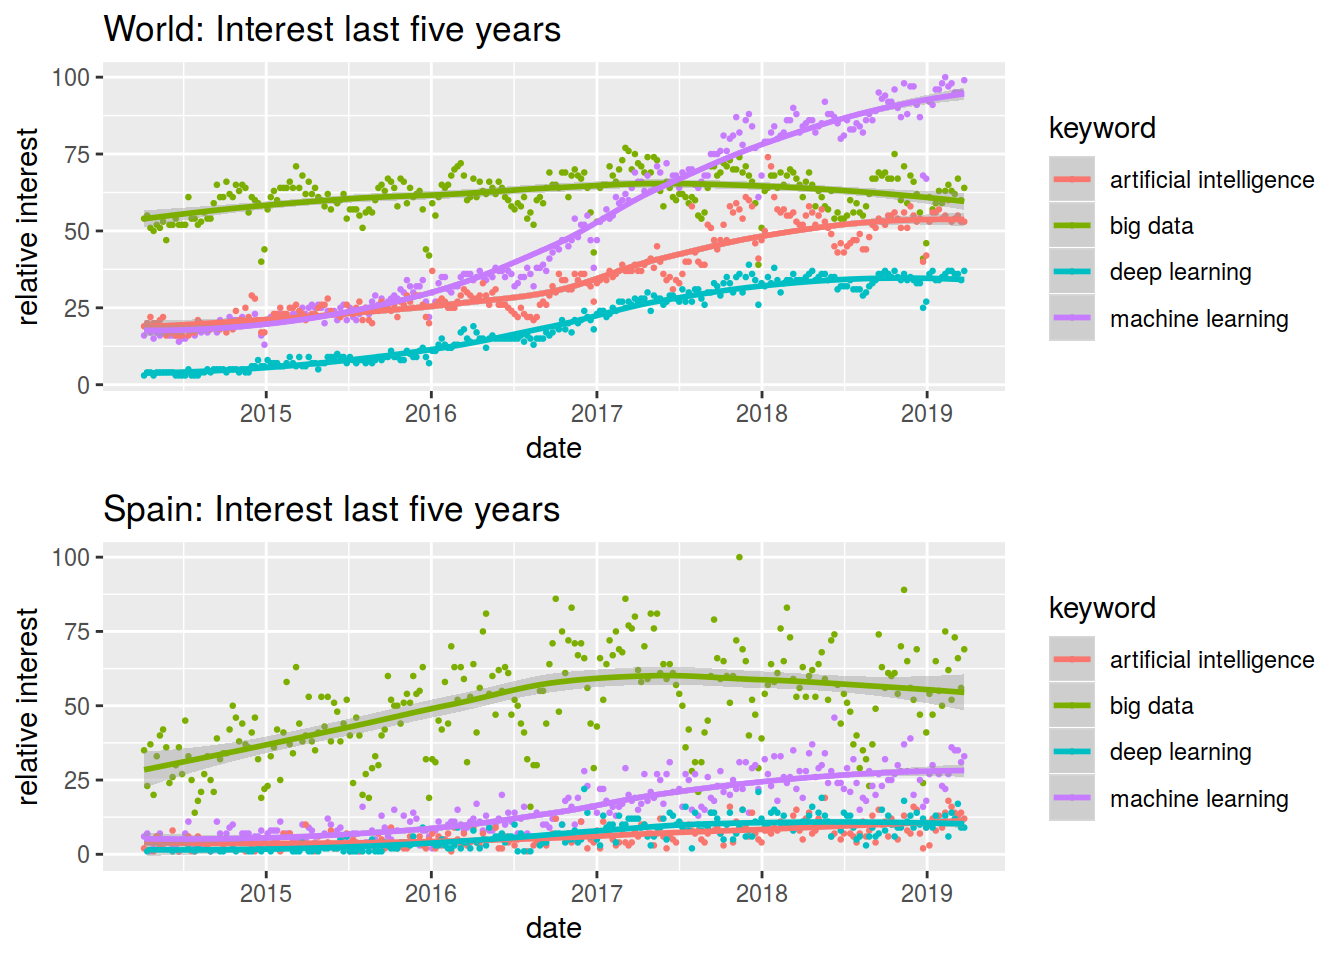
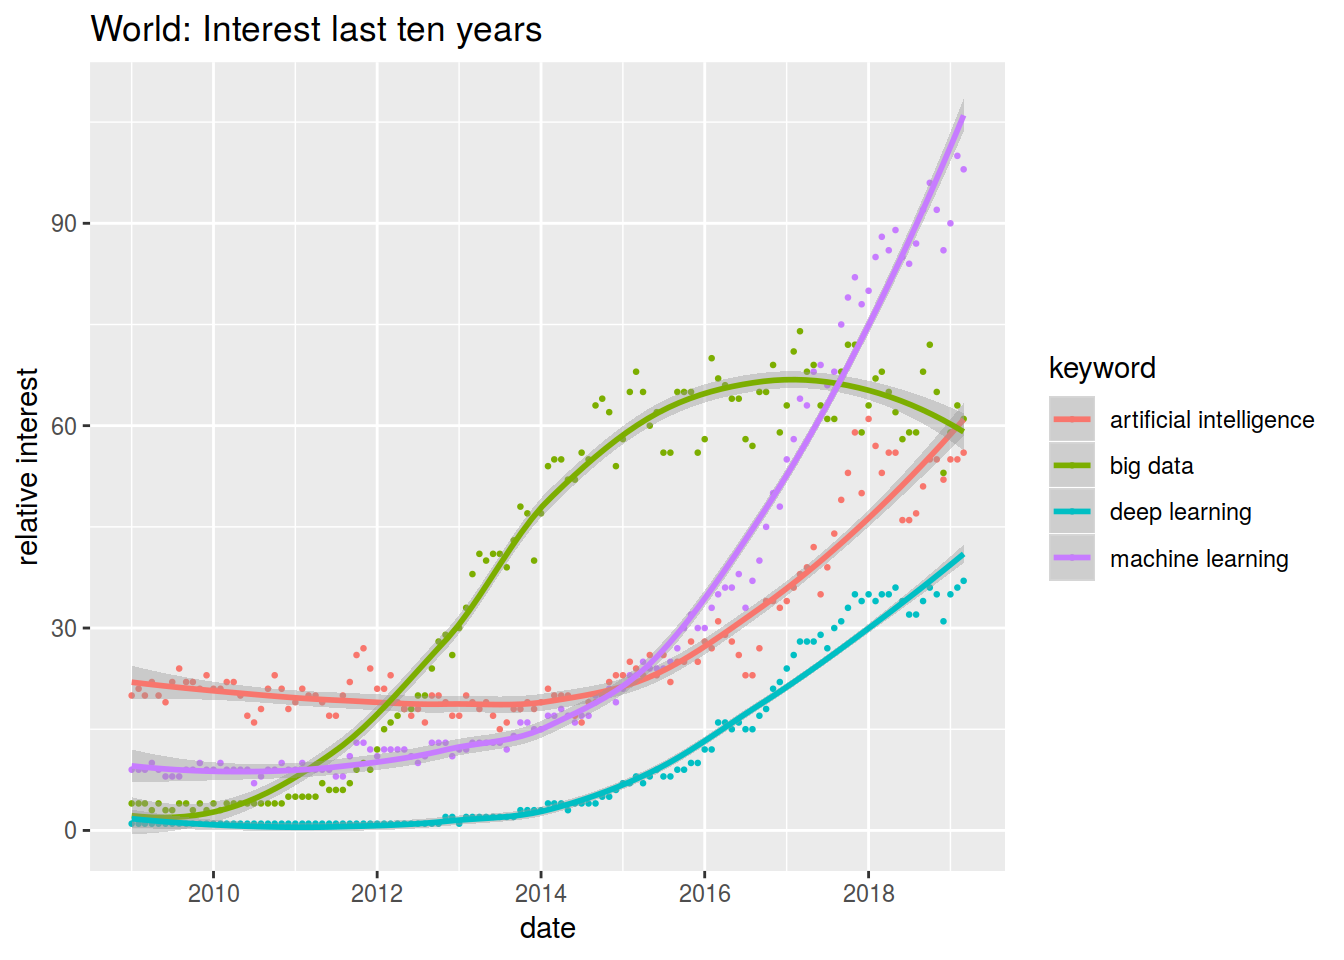
update graph

diff --git a/content/post/2019-04-01-burbuja-o-no-burbuja-esa-es-la-cuestion.html b/content/post/2019-04-01-burbuja-o-no-burbuja-esa-es-la-cuestion.html
@@ -22,37 +22,42 @@ topics: []
 <p>Vamos a usar la librería gtrendsR que ataca a la API de googleTrends</p>
 <pre class="r"><code>library(gtrendsR)
 library(tidyverse)</code></pre>
-<pre><code>## ── Attaching packages ───────────────────────────────────────────────── tidyverse 1.2.1 ──</code></pre>
+<pre><code>## ── Attaching packages ──────────────────────────────── tidyverse 1.2.1 ──</code></pre>
 <pre><code>## ✔ ggplot2 3.1.0       ✔ purrr   0.3.2  
 ## ✔ tibble  2.1.1       ✔ dplyr   0.8.0.1
 ## ✔ tidyr   0.8.3       ✔ stringr 1.4.0  
 ## ✔ readr   1.3.1       ✔ forcats 0.4.0</code></pre>
-<pre><code>## ── Conflicts ──────────────────────────────────────────────────── tidyverse_conflicts() ──
+<pre><code>## ── Conflicts ─────────────────────────────────── tidyverse_conflicts() ──
 ## ✖ dplyr::filter() masks stats::filter()
 ## ✖ dplyr::lag()    masks stats::lag()</code></pre>
 <pre class="r"><code>library(patchwork)</code></pre>
-<pre class="r"><code>hype_words_all &lt;- gtrends(c(&quot;big data&quot;,&quot;machine learning&quot;,&quot;artificial intelligence&quot;,&quot;deep learning&quot;), time = &quot;today+5-y&quot;)
+<p>A petición de lector del blog, compañero de trabajo y sin embargo amigo pongo las búsquedas desde más atrás, pero sólo para las globales</p>
+<pre class="r"><code>today &lt;- Sys.Date()
+fecha_inicio &lt;- &quot;2009-01-01&quot;
+intervalo &lt;- paste(fecha_inicio, today, sep = &quot; &quot;)
+
+hype_words_all &lt;- gtrends(c(&quot;big data&quot;,&quot;machine learning&quot;,&quot;artificial intelligence&quot;,&quot;deep learning&quot;), time = intervalo)
 
 
-hype_words_spain &lt;- gtrends(c(&quot;big data&quot;,&quot;machine learning&quot;,&quot;artificial intelligence&quot;,&quot;deep learning&quot;), geo=&quot;ES&quot;, time = &quot;today+5-y&quot;)</code></pre>
+# hype_words_spain &lt;- gtrends(c(&quot;big data&quot;,&quot;machine learning&quot;,&quot;artificial intelligence&quot;,&quot;deep learning&quot;), geo=&quot;ES&quot;, time = intervalo)</code></pre>
 <pre class="r"><code>interest_over_time_all &lt;-  hype_words_all$interest_over_time 
 interest_over_time_all &lt;- interest_over_time_all %&gt;% filter(hits &gt;0 &amp; !is.na(hits))
 
-
-interest_over_time_spain &lt;-  hype_words_spain$interest_over_time 
-interest_over_time_spain &lt;- interest_over_time_spain %&gt;% filter(hits &gt;0 &amp; !is.na(hits))</code></pre>
+# 
+# interest_over_time_spain &lt;-  hype_words_spain$interest_over_time 
+# interest_over_time_spain &lt;- interest_over_time_spain %&gt;% filter(hits &gt;0 &amp; !is.na(hits))</code></pre>
 <pre class="r"><code>p1 &lt;- ggplot(interest_over_time_all, aes(x = date, y = hits, color=keyword)) +
   geom_point(size = rel(0.5)) +
   geom_smooth(span = 0.8) +
-  labs(title=&quot;World: Interest last five years&quot;, y = &quot;relative interest&quot;)
+  labs(title=&quot;World: Interest last ten years&quot;, y = &quot;relative interest&quot;)
 
-p2 &lt;- ggplot(interest_over_time_spain, aes(x = date, y = hits, color=keyword)) +
-  geom_point(size = rel(0.5)) +
-  geom_smooth(span = 0.8) +
-  labs(title=&quot;Spain: Interest last five years&quot;, y = &quot;relative interest&quot;)
-
-p1 + p2  + plot_layout(ncol = 1)</code></pre>
-<pre><code>## `geom_smooth()` using method = &#39;loess&#39; and formula &#39;y ~ x&#39;
-## `geom_smooth()` using method = &#39;loess&#39; and formula &#39;y ~ x&#39;</code></pre>
+p1</code></pre>
+<pre><code>## `geom_smooth()` using method = &#39;loess&#39; and formula &#39;y ~ x&#39;</code></pre>
 <p><img src="/post/2019-04-01-burbuja-o-no-burbuja-esa-es-la-cuestion_files/figure-html/unnamed-chunk-4-1.png" width="672" /></p>
+<pre class="r"><code># p2 &lt;- ggplot(interest_over_time_spain, aes(x = date, y = hits, color=keyword)) +
+#   geom_point(size = rel(0.5)) +
+#   geom_smooth() +
+#   labs(title=&quot;Spain: Interest last five years&quot;, y = &quot;relative interest&quot;)
+
+# p1 + p2  + plot_layout(ncol = 1)</code></pre>
 <p>Pues ¿qué les parece? ¿Vamos camino de un burbuja o ya estamos en ella?</p>
